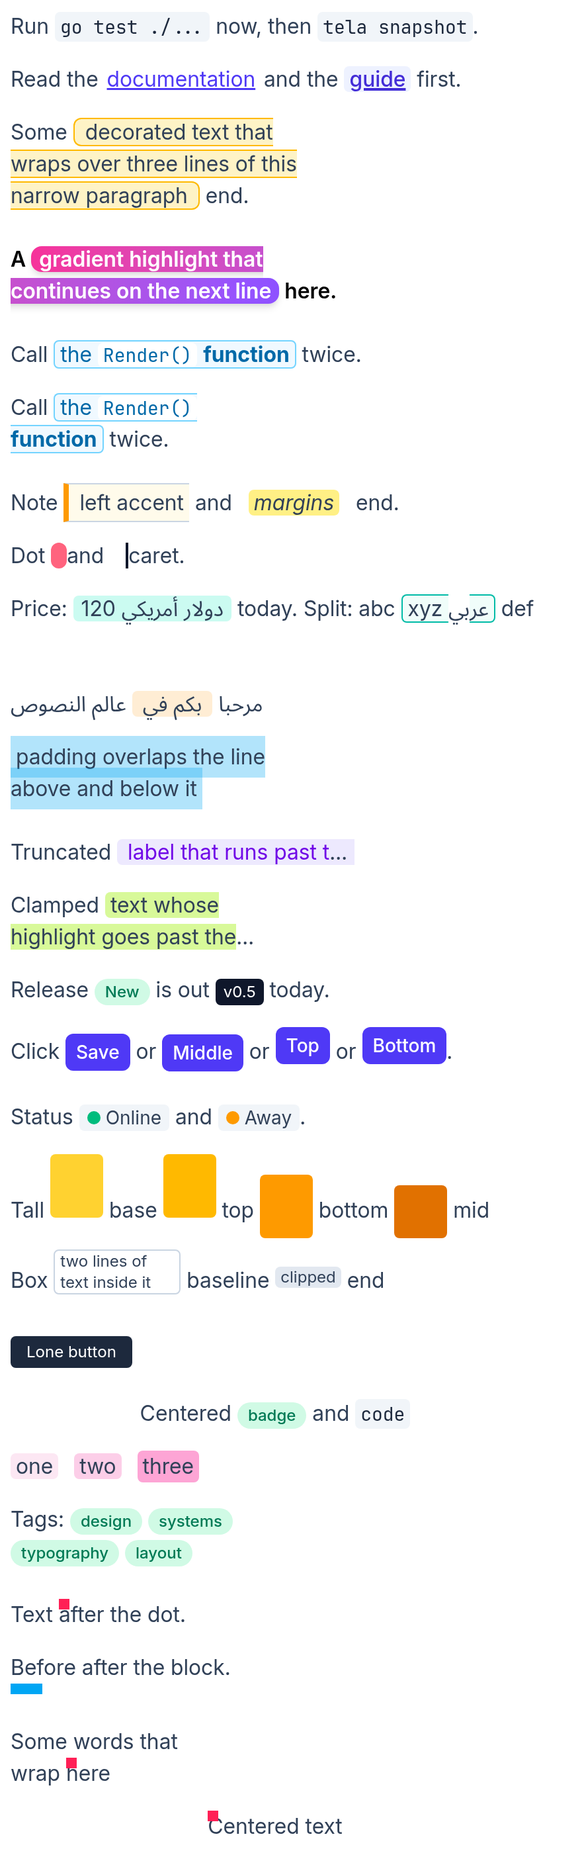
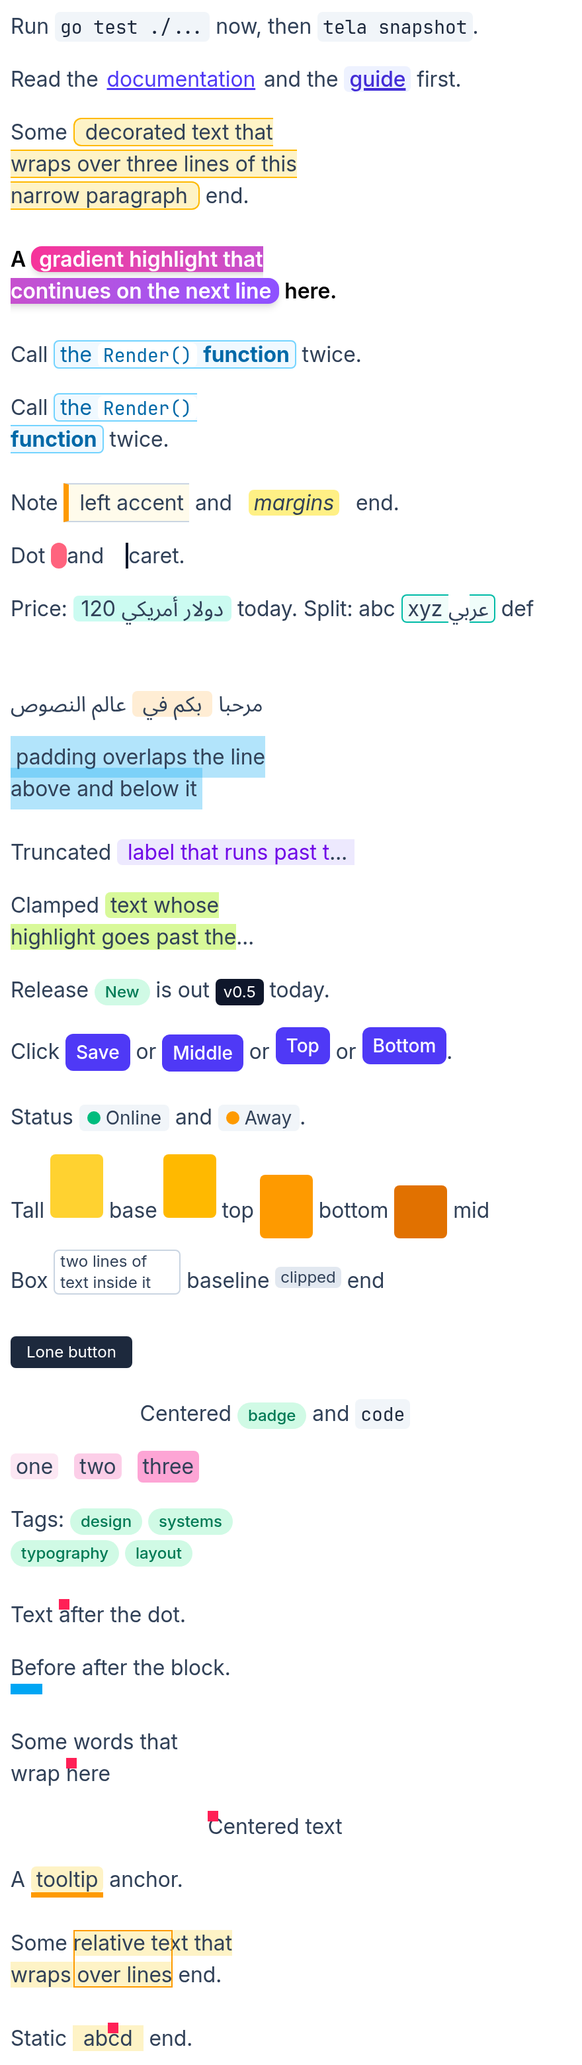
layout, core: a relative inline element contains its absolute children
An absolute child of a relative (or sticky) inline element, a Span in a
paragraph, was placed against the nearest positioned block: inline
elements have no box of their own in the layout tree, so they were never
containing blocks (ADR-176's other known gap). Chromium makes the inline
box the containing block: the padding boxes of its fragments, from the
left edge of its first fragment to the right edge of its last (empty when
the last ends before the first starts) and from the top of the first to
the bottom of the last, across lines too (CSS 2.1 section 10.1 leaves the
split case undefined).

The paragraph records, for each out-of-flow box, the innermost open
relative or sticky inline element around it (Box.anchorCB); the block
that holds the paragraph lays such a box out against that rectangle
(layout.InlinePlacer.ContainingBlock), measuring its overflow from its own
padding box as for its other children.

The inline gallery gains three cells (a tooltip bar under a relative
span, an inset-0 ring around a span wrapped over two lines, a static
position inside a padded relative span), measured by Chromium 155; its
references and golden are regenerated (the earlier cells measure the
same). ADR-268 (amends ADR-176).

diff --git a/internal/core/testdata/chromium/inline/gallery.html b/internal/core/testdata/chromium/inline/gallery.html
@@ -5,12 +5,12 @@
 <link rel="stylesheet" href="gallery.css">
 </head>
 <body class="bg-white">
-<div id="e0" class="w-[440px]"><div id="e1" class="h-[40px] overflow-visible px-2 pt-2"><p id="e2" class="text-slate-700">Run <code id="e3" class="rounded bg-slate-100 px-1 py-0.5 font-mono text-sm text-slate-800">go test ./...</code> now, then <code id="e4" class="rounded bg-slate-100 px-1 py-0.5 font-mono text-sm text-slate-800">tela snapshot</code>.</p></div><div id="e5" class="h-[40px] overflow-visible px-2 pt-2"><p id="e6" class="text-slate-700">Read the <a id="e7" class="rounded px-0.5 text-indigo-600 underline">documentation</a> and the <a id="e8" class="rounded bg-indigo-50 px-1 font-medium text-indigo-700 underline decoration-2">guide</a> first.</p></div><div id="e9" class="h-[96px] overflow-visible px-2 pt-2"><p id="e10" class="w-[230px] text-slate-700">Some <span id="e11" class="rounded-md border border-amber-400 bg-amber-100 px-2">decorated text that wraps over three lines of this narrow paragraph</span> end.</p></div><div id="e12" class="h-[72px] overflow-visible px-2 pt-2"><p id="e13" class="w-[250px] font-semibold">A <span id="e14" class="rounded-lg bg-linear-to-r from-pink-500 to-violet-500 px-1.5 text-white shadow-md">gradient highlight that continues on the next line</span> here.</p></div><div id="e15" class="h-[40px] overflow-visible px-2 pt-2"><p id="e16" class="text-slate-700">Call <a id="e17" class="rounded border border-sky-300 bg-sky-50 px-1 text-sky-700">the <code id="e18" class="rounded bg-white px-1 font-mono text-sm">Render()</code> <strong id="e19">function</strong></a> twice.</p></div><div id="e20" class="h-[72px] overflow-visible px-2 pt-2"><p id="e21" class="w-[170px] text-slate-700">Call <a id="e22" class="rounded border border-sky-300 bg-sky-50 px-1 text-sky-700">the <code id="e23" class="rounded bg-white px-1 font-mono text-sm">Render()</code> <strong id="e24">function</strong></a> twice.</p></div><div id="e25" class="h-[40px] overflow-visible px-2 pt-2"><p id="e26" class="text-slate-700">Note <span id="e27" class="border-y border-l-4 border-y-slate-300 border-l-amber-500 bg-amber-50 py-1 pr-1 pl-2">left accent</span> and <em id="e28" class="mx-2 rounded-sm bg-yellow-200 px-1">margins</em> end.</p></div><div id="e29" class="h-[40px] overflow-visible px-2 pt-2"><p id="e30" class="text-slate-700">Dot <span id="e31" class="rounded-full bg-rose-400 px-1.5"></span> and <span id="e32" class="border-r-2 border-r-slate-900 pl-3"></span>caret.</p></div><div id="e33" class="h-[72px] overflow-visible px-2 pt-2"><p id="e34" class="w-[400px] text-slate-700">Price: <span id="e35" class="rounded bg-teal-100 px-1.5">120 دولار أمريكي</span> today. Split: abc <span id="e36" class="rounded border border-teal-500 bg-teal-50 px-1">xyz عر</span>بي def</p></div><div id="e37" class="h-[40px] overflow-visible px-2 pt-2"><p id="e38" class="text-slate-700">مرحبا <span id="e39" class="rounded bg-orange-100 px-2">بكم في</span> عالم النصوص</p></div><div id="e40" class="h-[72px] overflow-visible px-2 pt-2"><p id="e41" class="w-[200px] text-slate-700"><span id="e42" class="bg-sky-500/30 px-1 py-1.5">padding overlaps the line above and below it</span></p></div><div id="e43" class="h-[40px] overflow-visible px-2 pt-2"><p id="e44" class="w-[260px] truncate text-slate-700">Truncated <span id="e45" class="rounded bg-violet-100 px-2 text-violet-700">label that runs past the end</span> of the box</p></div><div id="e46" class="h-[64px] overflow-visible px-2 pt-2"><p id="e47" class="line-clamp-2 w-[220px] text-slate-700">Clamped <span id="e48" class="rounded bg-lime-200 px-1">text whose highlight goes past the second line of the clamp</span> and more.</p></div><div id="e49" class="h-[40px] overflow-visible px-2 pt-2"><p id="e50" class="text-slate-700">Release <span id="e51" class="inline-block rounded-full bg-emerald-100 px-2 py-0.5 text-xs font-medium text-emerald-700">New</span> is out <span id="e52" class="inline-block rounded bg-slate-900 px-1.5 text-xs leading-5 text-white">v0.5</span> today.</p></div><div id="e53" class="h-[56px] overflow-visible px-2 pt-2"><p id="e54" class="text-slate-700">Click <button id="e55" class="rounded-md bg-indigo-600 px-2 py-1 text-sm font-medium text-white">Save</button> or <button id="e56" class="rounded-md bg-indigo-600 px-2 py-1 text-sm font-medium text-white align-middle">Middle</button> or <button id="e57" class="rounded-md bg-indigo-600 px-2 py-1 text-sm font-medium text-white align-top">Top</button> or <button id="e58" class="rounded-md bg-indigo-600 px-2 py-1 text-sm font-medium text-white align-text-bottom">Bottom</button>.</p></div><div id="e59" class="h-[40px] overflow-visible px-2 pt-2"><p id="e60" class="text-slate-700">Status <span id="e61" class="inline-flex items-center gap-1 rounded bg-slate-100 px-1.5 text-sm"><span id="e62" class="inline-block size-2.5 rounded-full bg-emerald-500"></span>Online</span> and <span id="e63" class="inline-flex items-baseline gap-1 rounded bg-slate-100 px-1.5 text-sm"><span id="e64" class="inline-block size-2.5 rounded-full bg-amber-500"></span>Away</span>.</p></div><div id="e65" class="h-[72px] overflow-visible px-2 pt-2"><p id="e66" class="text-slate-700">Tall <span id="e67" class="inline-block h-12 w-10 rounded bg-amber-300"></span> base <span id="e68" class="inline-block h-12 w-10 rounded bg-amber-400 align-top"></span> top <span id="e69" class="inline-block h-12 w-10 rounded bg-amber-500 align-bottom"></span> bottom <span id="e70" class="inline-block h-10 w-10 rounded bg-amber-600 align-middle"></span> mid</p></div><div id="e71" class="h-[64px] overflow-visible px-2 pt-2"><p id="e72" class="text-slate-700">Box <span id="e73" class="inline-block w-24 rounded border border-slate-300 px-1 text-xs">two lines of text inside it</span> baseline <span id="e74" class="inline-block overflow-hidden rounded bg-slate-200 px-1 text-xs">clipped</span> end</p></div><div id="e75" class="h-[48px] overflow-visible px-2 pt-2"><div id="e76"><button id="e77" class="rounded bg-slate-800 px-3 py-1 text-xs text-white">Lone button</button></div></div><div id="e78" class="h-[40px] overflow-visible px-2 pt-2"><p id="e79" class="w-[400px] text-center text-slate-700">Centered <span id="e80" class="inline-block rounded-full bg-emerald-100 px-2 py-0.5 text-xs font-medium text-emerald-700">badge</span> and <code id="e81" class="rounded bg-slate-100 px-1 py-0.5 font-mono text-sm text-slate-800">code</code></p></div><div id="e82" class="h-[40px] overflow-visible px-2 pt-2"><p id="e83" class="space-x-3 text-slate-700"><span id="e84" class="rounded bg-pink-100 px-1">one</span><span id="e85" class="rounded bg-pink-200 px-1">two</span><button id="e86" class="rounded bg-pink-300 px-1">three</button></p></div><div id="e87" class="h-[72px] overflow-visible px-2 pt-2"><p id="e88" class="w-[200px] text-slate-700">Tags: <span id="e89" class="inline-block rounded-full bg-emerald-100 px-2 py-0.5 text-xs font-medium text-emerald-700">design</span> <span id="e90" class="inline-block rounded-full bg-emerald-100 px-2 py-0.5 text-xs font-medium text-emerald-700">systems</span> <span id="e91" class="inline-block rounded-full bg-emerald-100 px-2 py-0.5 text-xs font-medium text-emerald-700">typography</span> <span id="e92" class="inline-block rounded-full bg-emerald-100 px-2 py-0.5 text-xs font-medium text-emerald-700">layout</span></p></div><div id="e93" class="h-[40px] overflow-visible px-2 pt-2"><p id="e94" class="relative w-[400px] text-slate-700">Text <span id="e95" class="absolute size-2 bg-rose-500"></span>after the dot.</p></div><div id="e96" class="h-[56px] overflow-visible px-2 pt-2"><div id="e97" class="relative w-[400px] text-slate-700">Before <div id="e98" class="absolute h-2 w-6 bg-sky-500"></div>after the block.</div></div><div id="e99" class="h-[64px] overflow-visible px-2 pt-2"><p id="e100" class="relative w-[150px] text-slate-700">Some words that wrap <span id="e101" class="absolute size-2 bg-rose-500"></span>here</p></div><div id="e102" class="h-[40px] overflow-visible px-2 pt-2"><p id="e103" class="relative w-[400px] text-center text-slate-700"><span id="e104" class="absolute size-2 bg-rose-500"></span>Centered text</p></div></div>
+<div id="e0" class="w-[440px]"><div id="e1" class="h-[40px] overflow-visible px-2 pt-2"><p id="e2" class="text-slate-700">Run <code id="e3" class="rounded bg-slate-100 px-1 py-0.5 font-mono text-sm text-slate-800">go test ./...</code> now, then <code id="e4" class="rounded bg-slate-100 px-1 py-0.5 font-mono text-sm text-slate-800">tela snapshot</code>.</p></div><div id="e5" class="h-[40px] overflow-visible px-2 pt-2"><p id="e6" class="text-slate-700">Read the <a id="e7" class="rounded px-0.5 text-indigo-600 underline">documentation</a> and the <a id="e8" class="rounded bg-indigo-50 px-1 font-medium text-indigo-700 underline decoration-2">guide</a> first.</p></div><div id="e9" class="h-[96px] overflow-visible px-2 pt-2"><p id="e10" class="w-[230px] text-slate-700">Some <span id="e11" class="rounded-md border border-amber-400 bg-amber-100 px-2">decorated text that wraps over three lines of this narrow paragraph</span> end.</p></div><div id="e12" class="h-[72px] overflow-visible px-2 pt-2"><p id="e13" class="w-[250px] font-semibold">A <span id="e14" class="rounded-lg bg-linear-to-r from-pink-500 to-violet-500 px-1.5 text-white shadow-md">gradient highlight that continues on the next line</span> here.</p></div><div id="e15" class="h-[40px] overflow-visible px-2 pt-2"><p id="e16" class="text-slate-700">Call <a id="e17" class="rounded border border-sky-300 bg-sky-50 px-1 text-sky-700">the <code id="e18" class="rounded bg-white px-1 font-mono text-sm">Render()</code> <strong id="e19">function</strong></a> twice.</p></div><div id="e20" class="h-[72px] overflow-visible px-2 pt-2"><p id="e21" class="w-[170px] text-slate-700">Call <a id="e22" class="rounded border border-sky-300 bg-sky-50 px-1 text-sky-700">the <code id="e23" class="rounded bg-white px-1 font-mono text-sm">Render()</code> <strong id="e24">function</strong></a> twice.</p></div><div id="e25" class="h-[40px] overflow-visible px-2 pt-2"><p id="e26" class="text-slate-700">Note <span id="e27" class="border-y border-l-4 border-y-slate-300 border-l-amber-500 bg-amber-50 py-1 pr-1 pl-2">left accent</span> and <em id="e28" class="mx-2 rounded-sm bg-yellow-200 px-1">margins</em> end.</p></div><div id="e29" class="h-[40px] overflow-visible px-2 pt-2"><p id="e30" class="text-slate-700">Dot <span id="e31" class="rounded-full bg-rose-400 px-1.5"></span> and <span id="e32" class="border-r-2 border-r-slate-900 pl-3"></span>caret.</p></div><div id="e33" class="h-[72px] overflow-visible px-2 pt-2"><p id="e34" class="w-[400px] text-slate-700">Price: <span id="e35" class="rounded bg-teal-100 px-1.5">120 دولار أمريكي</span> today. Split: abc <span id="e36" class="rounded border border-teal-500 bg-teal-50 px-1">xyz عر</span>بي def</p></div><div id="e37" class="h-[40px] overflow-visible px-2 pt-2"><p id="e38" class="text-slate-700">مرحبا <span id="e39" class="rounded bg-orange-100 px-2">بكم في</span> عالم النصوص</p></div><div id="e40" class="h-[72px] overflow-visible px-2 pt-2"><p id="e41" class="w-[200px] text-slate-700"><span id="e42" class="bg-sky-500/30 px-1 py-1.5">padding overlaps the line above and below it</span></p></div><div id="e43" class="h-[40px] overflow-visible px-2 pt-2"><p id="e44" class="w-[260px] truncate text-slate-700">Truncated <span id="e45" class="rounded bg-violet-100 px-2 text-violet-700">label that runs past the end</span> of the box</p></div><div id="e46" class="h-[64px] overflow-visible px-2 pt-2"><p id="e47" class="line-clamp-2 w-[220px] text-slate-700">Clamped <span id="e48" class="rounded bg-lime-200 px-1">text whose highlight goes past the second line of the clamp</span> and more.</p></div><div id="e49" class="h-[40px] overflow-visible px-2 pt-2"><p id="e50" class="text-slate-700">Release <span id="e51" class="inline-block rounded-full bg-emerald-100 px-2 py-0.5 text-xs font-medium text-emerald-700">New</span> is out <span id="e52" class="inline-block rounded bg-slate-900 px-1.5 text-xs leading-5 text-white">v0.5</span> today.</p></div><div id="e53" class="h-[56px] overflow-visible px-2 pt-2"><p id="e54" class="text-slate-700">Click <button id="e55" class="rounded-md bg-indigo-600 px-2 py-1 text-sm font-medium text-white">Save</button> or <button id="e56" class="rounded-md bg-indigo-600 px-2 py-1 text-sm font-medium text-white align-middle">Middle</button> or <button id="e57" class="rounded-md bg-indigo-600 px-2 py-1 text-sm font-medium text-white align-top">Top</button> or <button id="e58" class="rounded-md bg-indigo-600 px-2 py-1 text-sm font-medium text-white align-text-bottom">Bottom</button>.</p></div><div id="e59" class="h-[40px] overflow-visible px-2 pt-2"><p id="e60" class="text-slate-700">Status <span id="e61" class="inline-flex items-center gap-1 rounded bg-slate-100 px-1.5 text-sm"><span id="e62" class="inline-block size-2.5 rounded-full bg-emerald-500"></span>Online</span> and <span id="e63" class="inline-flex items-baseline gap-1 rounded bg-slate-100 px-1.5 text-sm"><span id="e64" class="inline-block size-2.5 rounded-full bg-amber-500"></span>Away</span>.</p></div><div id="e65" class="h-[72px] overflow-visible px-2 pt-2"><p id="e66" class="text-slate-700">Tall <span id="e67" class="inline-block h-12 w-10 rounded bg-amber-300"></span> base <span id="e68" class="inline-block h-12 w-10 rounded bg-amber-400 align-top"></span> top <span id="e69" class="inline-block h-12 w-10 rounded bg-amber-500 align-bottom"></span> bottom <span id="e70" class="inline-block h-10 w-10 rounded bg-amber-600 align-middle"></span> mid</p></div><div id="e71" class="h-[64px] overflow-visible px-2 pt-2"><p id="e72" class="text-slate-700">Box <span id="e73" class="inline-block w-24 rounded border border-slate-300 px-1 text-xs">two lines of text inside it</span> baseline <span id="e74" class="inline-block overflow-hidden rounded bg-slate-200 px-1 text-xs">clipped</span> end</p></div><div id="e75" class="h-[48px] overflow-visible px-2 pt-2"><div id="e76"><button id="e77" class="rounded bg-slate-800 px-3 py-1 text-xs text-white">Lone button</button></div></div><div id="e78" class="h-[40px] overflow-visible px-2 pt-2"><p id="e79" class="w-[400px] text-center text-slate-700">Centered <span id="e80" class="inline-block rounded-full bg-emerald-100 px-2 py-0.5 text-xs font-medium text-emerald-700">badge</span> and <code id="e81" class="rounded bg-slate-100 px-1 py-0.5 font-mono text-sm text-slate-800">code</code></p></div><div id="e82" class="h-[40px] overflow-visible px-2 pt-2"><p id="e83" class="space-x-3 text-slate-700"><span id="e84" class="rounded bg-pink-100 px-1">one</span><span id="e85" class="rounded bg-pink-200 px-1">two</span><button id="e86" class="rounded bg-pink-300 px-1">three</button></p></div><div id="e87" class="h-[72px] overflow-visible px-2 pt-2"><p id="e88" class="w-[200px] text-slate-700">Tags: <span id="e89" class="inline-block rounded-full bg-emerald-100 px-2 py-0.5 text-xs font-medium text-emerald-700">design</span> <span id="e90" class="inline-block rounded-full bg-emerald-100 px-2 py-0.5 text-xs font-medium text-emerald-700">systems</span> <span id="e91" class="inline-block rounded-full bg-emerald-100 px-2 py-0.5 text-xs font-medium text-emerald-700">typography</span> <span id="e92" class="inline-block rounded-full bg-emerald-100 px-2 py-0.5 text-xs font-medium text-emerald-700">layout</span></p></div><div id="e93" class="h-[40px] overflow-visible px-2 pt-2"><p id="e94" class="relative w-[400px] text-slate-700">Text <span id="e95" class="absolute size-2 bg-rose-500"></span>after the dot.</p></div><div id="e96" class="h-[56px] overflow-visible px-2 pt-2"><div id="e97" class="relative w-[400px] text-slate-700">Before <div id="e98" class="absolute h-2 w-6 bg-sky-500"></div>after the block.</div></div><div id="e99" class="h-[64px] overflow-visible px-2 pt-2"><p id="e100" class="relative w-[150px] text-slate-700">Some words that wrap <span id="e101" class="absolute size-2 bg-rose-500"></span>here</p></div><div id="e102" class="h-[40px] overflow-visible px-2 pt-2"><p id="e103" class="relative w-[400px] text-center text-slate-700"><span id="e104" class="absolute size-2 bg-rose-500"></span>Centered text</p></div><div id="e105" class="h-[48px] overflow-visible px-2 pt-2"><p id="e106" class="w-[400px] text-slate-700">A <span id="e107" class="relative rounded bg-amber-100 px-1">tooltip<span id="e108" class="absolute top-full left-0 h-1 w-full bg-amber-500"></span></span> anchor.</p></div><div id="e109" class="h-[72px] overflow-visible px-2 pt-2"><p id="e110" class="w-[200px] text-slate-700">Some <span id="e111" class="relative bg-amber-100">relative text that wraps over lines<span id="e112" class="absolute inset-0 border border-amber-500"></span></span> end.</p></div><div id="e113" class="h-[40px] overflow-visible px-2 pt-2"><p id="e114" class="w-[400px] text-slate-700">Static <span id="e115" class="relative bg-amber-100 px-2">ab<span id="e116" class="absolute size-2 bg-rose-500"></span>cd</span> end.</p></div></div>
 <pre id="out" style="display: none"></pre>
 <script>
 document.fonts.ready.then(() => Promise.all([...document.fonts].map(f => f.load()))).then(() => {
   const out = [];
-  for (let i = 0; i < 105; i++) {
+  for (let i = 0; i < 117; i++) {
     const e = document.getElementById("e" + i);
     out.push([...e.getClientRects()].map(q => [q.left, q.top, q.width, q.height]));
   }

diff --git a/internal/core/testdata/chromium/inline/gallery.css b/internal/core/testdata/chromium/inline/gallery.css
@@ -212,6 +212,15 @@
   .relative {
     position: relative;
   }
+  .inset-0 {
+    inset: 0px;
+  }
+  .top-full {
+    top: 100%;
+  }
+  .left-0 {
+    left: 0px;
+  }
   .mx-2 {
     margin-inline: calc(var(--spacing) * 2);
   }
@@ -234,6 +243,9 @@
   .size-2\.5 {
     width: calc(var(--spacing) * 2.5);
     height: calc(var(--spacing) * 2.5);
+  }
+  .h-1 {
+    height: var(--spacing);
   }
   .h-2 {
     height: calc(var(--spacing) * 2);
@@ -298,6 +310,9 @@
   .w-\[440px\] {
     width: 440px;
   }
+  .w-full {
+    width: 100%;
+  }
   .items-baseline {
     align-items: baseline;
   }
@@ -356,6 +371,9 @@
   }
   .border-amber-400 {
     border-color: var(--color-amber-400);
+  }
+  .border-amber-500 {
+    border-color: var(--color-amber-500);
   }
   .border-sky-300 {
     border-color: var(--color-sky-300);

diff --git a/internal/core/box.go b/internal/core/box.go
@@ -107,10 +107,13 @@ type Box struct {
 	// inPara is the paragraph box whose text includes this inline box.
 	inPara *Box
 	// anchor is, for an out-of-flow box in a paragraph's inline content,
-	// that paragraph's box (structure.go), and anchorOff the byte offset
-	// of its place in the text (layout.InlinePlacer, ADR-268).
+	// that paragraph's box (structure.go), anchorOff the byte offset of
+	// its place in the text and anchorCB the inline element of the
+	// paragraph that is its containing block, or -1 (layout.InlinePlacer,
+	// ADR-268).
 	anchor    *Box
 	anchorOff int32
+	anchorCB  int32
 	// hiddenAtom reports an atomic inline that its paragraph's
 	// text-overflow or line-clamp hides: it is not painted nor hit.
 	hiddenAtom bool
@@ -656,8 +659,9 @@ type paraAssembler struct {
 	spanEls []*Element
 	// oof are the out-of-flow elements of the content, in tree order:
 	// boxes of the block that holds the paragraph, not part of its text
-	// (structure.go).
-	oof []*Element
+	// (structure.go). stack holds the indices of the open inlines.
+	oof   []*Element
+	stack []int
 }
 
 func (a *paraAssembler) reset() {
@@ -668,7 +672,7 @@ func (a *paraAssembler) reset() {
 	clear(a.spanEls)
 	a.spanEls = a.spanEls[:0]
 	clear(a.oof)
-	a.oof = a.oof[:0]
+	a.oof, a.stack = a.oof[:0], a.stack[:0]
 	a.parts, a.boxes, a.spans, a.n = a.parts[:0], a.boxes[:0], a.spans[:0], 0
 	a.inlines, a.inl, a.atoms, a.atomBox, a.open = a.inlines[:0], a.inl[:0], a.atoms[:0], a.atomBox[:0], 0
 }
@@ -684,19 +688,31 @@ func (a *paraAssembler) openInline(el *Element) int {
 	})
 	a.inl = append(a.inl, el)
 	a.open++
+	a.stack = append(a.stack, len(a.inlines)-1)
 	return len(a.inlines) - 1
 }
 
 func (a *paraAssembler) closeInline(k int) {
 	a.inlines[k].End, a.inlines[k].BoxEnd = a.n, len(a.boxes)
 	a.open--
+	a.stack = a.stack[:len(a.stack)-1]
 }
 
 // addOutOfFlow records out-of-flow element el at the end of the content of
-// the paragraph of box para: its place on the line (ADR-268).
+// the paragraph of box para: its place on the line, and the innermost open
+// inline element that is positioned (relative or sticky), its containing
+// block (ADR-268).
 func (a *paraAssembler) addOutOfFlow(el *Element, para *Box) {
 	a.oof = append(a.oof, el)
-	el.box.anchor, el.box.anchorOff = para, int32(a.n)
+	bx := el.box
+	bx.anchor, bx.anchorOff, bx.anchorCB = para, int32(a.n), -1
+	for i := len(a.stack) - 1; i >= 0; i-- {
+		k := a.stack[i]
+		if cs := a.inl[k].box.cs; cs != nil && (cs.Position == style.PositionRelative || cs.Position == style.PositionSticky) {
+			bx.anchorCB = int32(k)
+			break
+		}
+	}
 }
 
 // inlineEdges returns the widths that the left and right edges of an

diff --git a/internal/core/inline.go b/internal/core/inline.go
@@ -392,7 +392,8 @@ func (p *paragraph) inlineRects(el *Element, dst []gfx.Rect) []gfx.Rect {
 // Out-of-flow boxes in a paragraph's inline content are children of the
 // block that holds the paragraph (structure.go, ADR-176). The box records
 // its paragraph and its place in the text (Box.anchor), and the paragraph
-// box gives layout its static position (ADR-268).
+// box gives layout its static position and, when a positioned inline
+// element holds it, its containing block (ADR-268).
 
 // InlineParagraph implements layout.InlineAnchored: the paragraph box b's
 // content was hoisted from, while it is b's sibling.
@@ -440,4 +441,58 @@ func (b *Box) StaticPosition(c layout.Node, w float32) (x, y float32, ok bool) {
 		x = w
 	}
 	return x, y, true
+}
+
+// ContainingBlock implements layout.InlinePlacer: for box c held by a
+// relative or sticky inline element of the paragraph, the padding boxes of
+// the element's fragments on its first and last lines, from the left edge
+// of the first to the right edge of the last (empty when the last ends
+// before the first starts) and from the top of the first to the bottom of
+// the last, as Chromium does across lines (CSS 2.1 section 10.1 leaves it
+// undefined).
+func (b *Box) ContainingBlock(c layout.Node, w float32) (gfx.Rect, bool) {
+	cb, p := b.anchoredIn(c, w)
+	if cb == nil || cb.anchorCB < 0 {
+		return gfx.Rect{}, false
+	}
+	k := int(cb.anchorCB)
+	cs := p.inlineStyle(k)
+	if cs == nil {
+		return gfx.Rect{}, false
+	}
+	e := edgeWidths(cs)
+	first, last := -1, -1
+	var r gfx.Rect
+	var right float32
+	for _, f := range p.fragments() {
+		if f.Inline != k {
+			continue
+		}
+		pad := fragBorderBox(cs, &f)
+		pad.Y0 += e.border.Top
+		pad.Y1 -= e.border.Bottom
+		if f.Left {
+			pad.X0 += e.border.Left
+		}
+		if f.Right {
+			pad.X1 -= e.border.Right
+		}
+		switch {
+		case first < 0 || f.Line < first:
+			first, r = f.Line, pad
+		case f.Line == first:
+			r.X0, r.Y0 = min(r.X0, pad.X0), min(r.Y0, pad.Y0)
+		}
+		switch {
+		case f.Line > last:
+			last, right, r.Y1 = f.Line, pad.X1, pad.Y1
+		case f.Line == last:
+			right, r.Y1 = max(right, pad.X1), max(r.Y1, pad.Y1)
+		}
+	}
+	if first < 0 {
+		return gfx.Rect{}, false
+	}
+	r.X1 = max(right, r.X0)
+	return r, true
 }

diff --git a/internal/layout/node.go b/internal/layout/node.go
@@ -22,7 +22,9 @@ type Node interface {
 // InlineAnchored is implemented by an absolutely positioned node that is
 // part of a paragraph's inline content, laid out by the block container
 // that holds the paragraph (core hoists such boxes out of their lines,
-// ADR-176). Its static position is its place on the line (ADR-268).
+// ADR-176). Its static position is its place on the line, and a
+// positioned inline element of the paragraph may be its containing block
+// (ADR-268).
 type InlineAnchored interface {
 	// InlineParagraph returns the paragraph node that places the node: a
 	// child of the same block container, an InlinePlacer; nil if none.
@@ -40,6 +42,13 @@ type InlinePlacer interface {
 	// that was block-level (Chromium); ok is false if c is not in the
 	// paragraph.
 	StaticPosition(c Node, width float32) (x, y float32, ok bool)
+	// ContainingBlock returns c's containing block when it is a
+	// positioned inline element of the paragraph: the padding boxes of
+	// the element's first and last fragments, from the left edge of the
+	// first to the right edge of the last (at least empty) and from the
+	// top of the first to the bottom of the last (CSS 2.1 section 10.1,
+	// as Chromium does across lines); ok is false otherwise.
+	ContainingBlock(c Node, width float32) (r gfx.Rect, ok bool)
 }
 
 // Measurer is implemented by leaves (nodes without children) that have

diff --git a/internal/core/inline_gallery_test.go b/internal/core/inline_gallery_test.go
@@ -200,6 +200,11 @@ var inlineGalleryCases = []inlineGalleryCase{
 	{"abs-block", 56, iel("div", "relative w-[400px] text-slate-700", itext("Before "), iel("div", "absolute h-2 w-6 bg-sky-500"), itext("after the block."))},
 	{"abs-wrapped", 64, iel("p", "relative w-[150px] text-slate-700", itext("Some words that wrap "), iel("span", "absolute size-2 bg-rose-500"), itext("here"))},
 	{"abs-centered", 40, iel("p", "relative w-[400px] text-center text-slate-700", iel("span", "absolute size-2 bg-rose-500"), itext("Centered text"))},
+	// An absolute child of a relative span: the span's inline box is its
+	// containing block, across lines too (ADR-268).
+	{"relative-span", 48, iel("p", "w-[400px] text-slate-700", itext("A "), iel("span", "relative rounded bg-amber-100 px-1", itext("tooltip"), iel("span", "absolute top-full left-0 h-1 w-full bg-amber-500")), itext(" anchor."))},
+	{"relative-wrap", 72, iel("p", "w-[200px] text-slate-700", itext("Some "), iel("span", "relative bg-amber-100", itext("relative text that wraps over lines"), iel("span", "absolute inset-0 border border-amber-500")), itext(" end."))},
+	{"relative-static", 40, iel("p", "w-[400px] text-slate-700", itext("Static "), iel("span", "relative bg-amber-100 px-2", itext("ab"), iel("span", "absolute size-2 bg-rose-500"), itext("cd")), itext(" end."))},
 }
 
 func inlineGalleryRoot() inode {

diff --git a/internal/layout/block.go b/internal/layout/block.go
@@ -185,6 +185,22 @@ func (e *Engine) blockInner(n Node, st *Style, in input) output {
 		if it.st.Fixed {
 			continue // laid out by its fixed containing block (fixed.go)
 		}
+		if p, pl := inlineParagraph(items, it); p != nil {
+			if r, ok := pl.ContainingBlock(it.node, p.out.size.w); ok {
+				// A positioned inline element of the paragraph is its
+				// containing block (ADR-268); the overflow is measured from
+				// this box's padding box as for its other children.
+				cbArea := size{fmax(r.X1-r.X0, 0), fmax(r.Y1-r.Y0, 0)}
+				cbOff := point{p.loc.x + r.X0, p.loc.y + r.Y0}
+				loc, fsz, out := e.placeAbsolute(n, it.node, it.st, cbArea, cbOff, it.static, dir, point{})
+				rel := point{loc.x - areaOffset.x, loc.y - areaOffset.y}
+				if dir == RTL {
+					rel.x = area.w - rel.x - fsz.w
+				}
+				absOverflow = absOverflow.union(overflowContribution(rel, fsz, out.overflow, it.st, scrolls))
+				continue
+			}
+		}
 		if cb {
 			absOverflow = absOverflow.union(e.layoutAbsolute(n, it.node, it.st, area, areaOffset, it.static, dir, scrolls, point{}))
 		} else {

diff --git a/internal/core/structure.go b/internal/core/structure.go
@@ -32,7 +32,9 @@ import (
 //     paragraph boxes: those before any content of a run come before its
 //     paragraph box, the others after it (ADR-176). Each records its
 //     paragraph and its place in the text (Box.anchor), which give layout
-//     its static position on its line (inline.go, ADR-268).
+//     its static position on its line and, inside a relative or sticky
+//     inline element, that element's fragments as its containing block
+//     (inline.go, ADR-268).
 //   - A flex container wraps each run of consecutive texts in an
 //     anonymous paragraph box (anonymous flex item); every primitive child
 //     is a flex item (blockified), inline ones included.
@@ -186,7 +188,7 @@ func (t *Tree) buildBoxes(el *Element) {
 				t.setAtomKids(a)
 				// The ones before its content sit at its start.
 				for _, o := range items[lead:i] {
-					o.box.anchor, o.box.anchorOff = a, 0
+					o.box.anchor, o.box.anchorOff, o.box.anchorCB = a, 0, -1
 				}
 			}
 			for _, h := range hoisted {

diff --git a/internal/layout/doc.go b/internal/layout/doc.go
@@ -102,7 +102,9 @@
 // ContainingBlock, or the root (the viewport), and fixed.go lays it out
 // for any container algorithm. A box of a paragraph's inline content
 // (InlineAnchored) is laid out by the block that holds the paragraph: its
-// static position is its place on its line (InlinePlacer, ADR-268).
+// static position is its place on its line, and a positioned inline
+// element of the paragraph can be its containing block (InlinePlacer,
+// ADR-268).
 // Absolutely positioned boxes are laid out by CSS 2's rules (10.3.7,
 // 10.6.4): the available space and auto margins come from the insets that
 // are set, percentages from the containing block's padding box; an auto

diff --git a/docs/adr/README.md b/docs/adr/README.md
@@ -272,4 +272,4 @@ Decisions that shape Tela, one file per ADR (`NNN-title.md`). `docs/ARCHITECTURE
 | [265](265-text-drags-and-fallback-baselines.md) | 2026-11-09 | Text drags and fallback-font baselines: a drag near a field's edges autoscrolls it (20 px band, 0.2 s delay, Chromium's step), the drag image of a selection is its text alone at 75% opacity, a move inside one field is one undo step (`edit.Command.JoinUndo`), an Input centers its laid-out line (taller with a fallback font such as Noto Sans Arabic) and puts its placeholder on the value's baseline; no touch drags until backends report touch (amends ADR-069, ADR-159, ADR-259) |  |
 | [266](266-number-formats.md) | 2026-11-09 | Number formats in Intl.NumberFormat's style: `SignDisplay`, `Currency` with `CurrencyDisplay` and `CurrencySign`, `Notation` (scientific, engineering, compact) with `CompactDisplay`, `RoundingMode` (Intl's nine modes, half to even by default); Tela rounds and writes every number from CLDR 48 (symbols and patterns of every locale, root arab and arabext, currency symbols, digits and region currencies; compact patterns and compressed currency names for the 113 generated locales); `{n, number, currency}` and ICU skeletons in messages; `-u-nu-` for any numeric system; `scriptAliases` generated from ICU's converter config and CLDR likely subtags (amends ADR-087, ADR-251, ADR-259) |  |
 | [267](267-known-limitations-list.md) | 2026-11-09 | Small limitations no planned phase covers go to the roadmap's non-blocking Known limitations list instead of a new follow-up phase; only the owner opens a phase; desktop touch input deferred (amends ADR-218) |  |
-| [268](268-layout-fidelity-ratios-grid-areas.md) | 2026-11-11 | Layout fidelity (phase 23): transferred ratio limits clamp only content-based flex sizes; a ratio box takes its height from a known width and grows with its content; column items with a ratio are measured at their fit-content width; grid percentage min sizes of an indefinite area count as 0; a growing Textarea's min-content width is its longest word; out-of-flow boxes in a paragraph have their static position on their line; the arbitrary properties `[grid-template-areas:…]` and `[grid-area:…]` (amends ADR-073, ADR-157, ADR-176, §9, §10) |  |
+| [268](268-layout-fidelity-ratios-grid-areas.md) | 2026-11-11 | Layout fidelity (phase 23): transferred ratio limits clamp only content-based flex sizes; a ratio box takes its height from a known width and grows with its content; column items with a ratio are measured at their fit-content width; grid percentage min sizes of an indefinite area count as 0; a growing Textarea's min-content width is its longest word; out-of-flow boxes in a paragraph have their static position on their line and a relative inline element is the containing block of its absolute children; the arbitrary properties `[grid-template-areas:…]` and `[grid-area:…]` (amends ADR-073, ADR-157, ADR-176, §9, §10) |  |

diff --git a/docs/adr/268-layout-fidelity-ratios-grid-areas.md b/docs/adr/268-layout-fidelity-ratios-grid-areas.md
@@ -5,7 +5,7 @@
 
 ## Decision
 
-Phase 23 layout fixes, each measured in Chromium 155 (amends ADR-073, ADR-157, ADR-176, §9, §10). **Ratios:** limits transferred through a flex item's ratio clamp only content-based sizes (two `w-full aspect-square max-h-[20px]` in 280 px: 140×20, were 20×20); a block, flex or grid container with a ratio and a known width takes its height from it, grown by taller content while min-height is auto (css-sizing-4's automatic minimum); a column item with a ratio and no definite width is measured at its fit-content width (30×30 in a `w-fit` column, was 5×5). **Grid:** a percentage min size of an indefinite area counts as 0, not auto. **Inline (ADR-176's gap):** an out-of-flow box in a paragraph has its static position on its line (a block-level one at the next line's start; `layout.InlineAnchored`, `InlinePlacer`). **Textarea:** a growing one's min-content width is its longest word. **Areas:** `[grid-template-areas:'a_b'_'c_d']` and `[grid-area:…]` join §10's arbitrary properties; no typed prop, templates are static.
+Phase 23 layout fixes, each measured in Chromium 155 (amends ADR-073, ADR-157, ADR-176, §9, §10). **Ratios:** limits transferred through a flex item's ratio clamp only content-based sizes (two `w-full aspect-square max-h-[20px]` in 280 px: 140×20, were 20×20); a block, flex or grid container with a ratio and a known width takes its height from it, grown by taller content while min-height is auto (css-sizing-4's automatic minimum); a column item with a ratio and no definite width is measured at its fit-content width (30×30 in a `w-fit` column, was 5×5). **Grid:** a percentage min size of an indefinite area counts as 0, not auto. **Inline (ADR-176's gaps):** an out-of-flow box in a paragraph has its static position on its line (a block-level one at the next line's start), and a `relative` inline element contains its absolute children, from its first fragment's left to its last's right (`layout.InlineAnchored`, `InlinePlacer`). **Textarea:** a growing one's min-content width is its longest word. **Areas:** `[grid-template-areas:'a_b'_'c_d']` and `[grid-area:…]` join §10's arbitrary properties; no typed prop, templates are static.
 
 ## Rationale
 

diff --git a/docs/ARCHITECTURE.md b/docs/ARCHITECTURE.md
@@ -283,7 +283,7 @@ type Constraints struct{ MinW, MaxW, MinH, MaxH float32 } // MaxW may be +Inf
 
 - **Box model:** always `box-sizing: border-box`.
 - **Direction:** `h.Dir` (HTML's `dir`: `rtl`, `ltr`, `auto`) sets the inline base direction, inherited like CSS `direction`. Under `rtl`, flex rows, grid columns, block auto margins, absolute static positions and scroll origins mirror as in Chromium, and logical utilities resolve against it (ADR-090). Components read it with `tela.UseDirection()` (ADR-155).
-- **Defaults:** `display` is `block`, like an HTML `div`. Inline elements (`Span`, `A`) only exist inside a text context (§11); `absolute` and `fixed` ones are blockified like any positioned box, and out-of-flow boxes do not split the inline content around them (ADR-176): their static position is their place on the line (ADR-268).
+- **Defaults:** `display` is `block`, like an HTML `div`. Inline elements (`Span`, `A`) only exist inside a text context (§11); `absolute` and `fixed` ones are blockified like any positioned box, and out-of-flow boxes do not split the inline content around them (ADR-176): their static position is their place on the line, and a `relative` inline element is the containing block of its absolute children (ADR-268).
 - **Virtualization (from TanStack Virtual / Flutter slivers):** `h.VirtualList(count, estimateSize, renderItem)` (`renderItem` is a `func(int) tela.Node`, which may return a struct component; ADR-097, ADR-205) builds only visible items plus overscan. It supports variable item sizes measured on the fly, keeps scroll position stable when measurements correct estimates, and provides `ScrollToIndex`.
 
 ## 10. Style system
